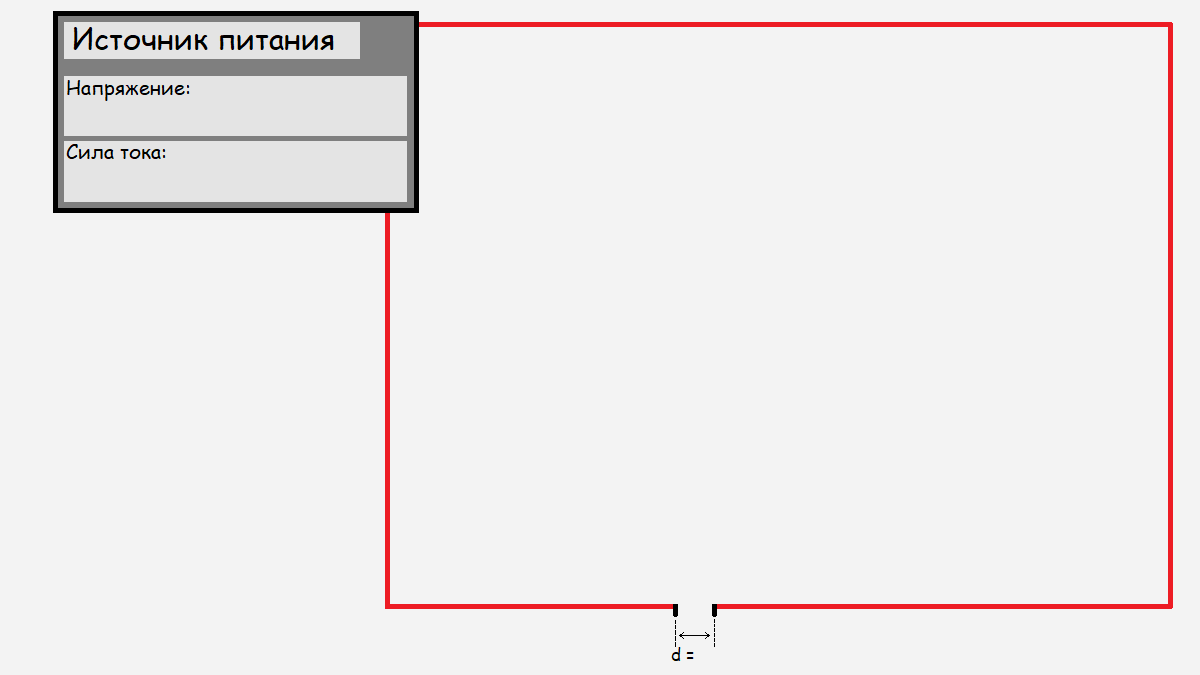
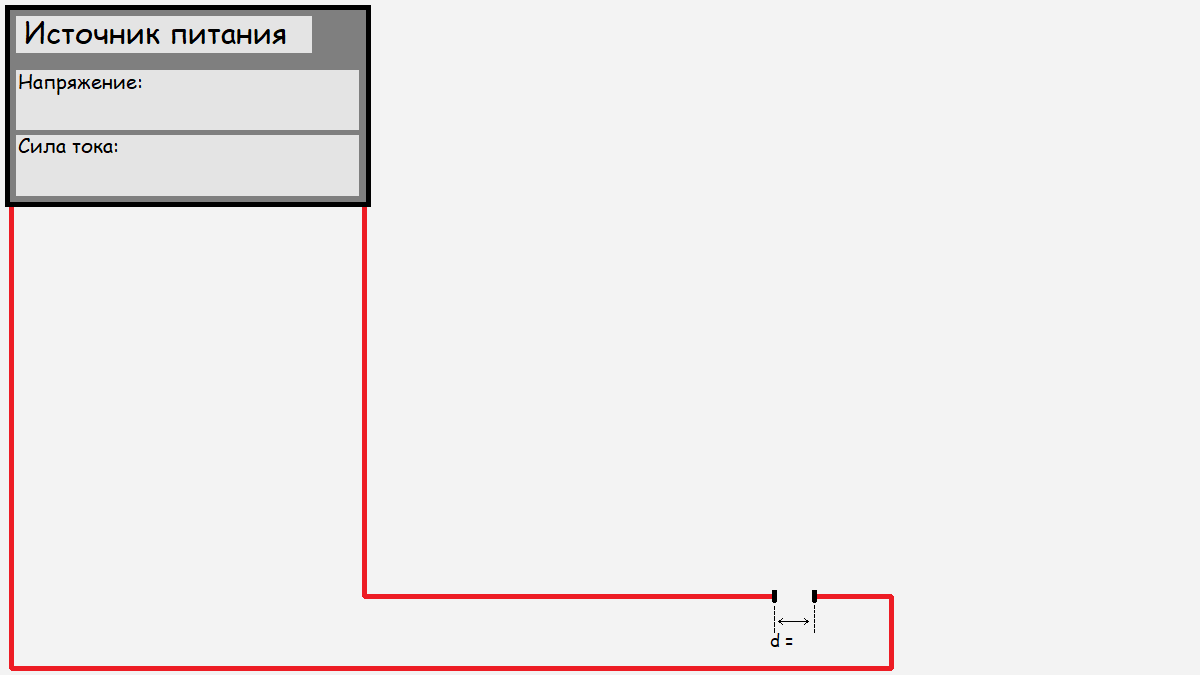
update

Changed region(s): [[0.0, 0.0, 0.9867, 0.9956]]

diff --git a/Physics/Electric arc/physics.py b/Physics/Electric arc/physics.py
@@ -10,7 +10,8 @@ class Ladder:
 
 # Заранее известные константы
     # Общие константы
-    dielectric_strength = 3 * 10 ** 6  # Электрическая прочность воздушного промежутка (В/м)
+    arc_a = -9.81  # Ускорение дуги по оси Y (масса плазмы отрицательна)
+    dielectric_strength = 3 * 10 ** 6  # Электрическая прочность воздушного промежутка (В/м) 3000в/мм => 15000/х = 3000 => х = 5см, а в Галилео было около 3см разница, но дуга все равно разрывалась
     gas_R = 8.31446  # Универсальная газовая постоянная (Дж/(моль*К))
     g = 9.81  # Ускорение свободного падения (м/с^2)
     ion_y = 5 * 10 ** (-2)  # Коэффициент вторичной ионизации
@@ -18,11 +19,11 @@ class Ladder:
     # Все про воздух
     atmosphere_pressure = 10 ** 5  # Абсолютное давление (Па)
     air_temperature = 273.15  # Температура воздуха (K) (0 *С)
-    air_M = 29 * 10**(-3)  # Молярная масса воздуха (кг/моль)
+    # air_M = 29 * 10**(-3)  # Молярная масса воздуха (кг/моль)
 
     # Все про дугу
     arc_temperature = 9273.15  # Температура плазмы (К) (9000 *C)
-    arc_M = 29 * 10**(-3)  # Молярная масса ионизированного воздуха (кг/моль)
+    # arc_M = 29 * 10**(-3)  # Молярная масса ионизированного воздуха (кг/моль)
     stick_length = 1  # Длина проводников (м)
 
 # Входные данные
@@ -32,7 +33,7 @@ class Ladder:
     stick_p = 0.015  # Удельное сопротивление проводников - [0.015; 1.500] (в Ом*мм^2/м)
     stick_S = 0.5  # Площадь поперечного сечения провода - [0.5; 1600.0] (в мм^2) (до десятых)
 
-    # Все про аккумулятор
+    # Все про источник питания
     battery_U = 0  # Напряжение на выходе из источника питания - [0; 10000] (в Вольтах) (до целых)
     battery_I = 0  # Сила тока источника - [0.0, 10.0] (в Амперах) (до десятых)
 
@@ -43,35 +44,35 @@ class Ladder:
 
 # Вычисленные, не изменяющиеся данные
     # Все про провода
-    wire_R = wire_p * wire_length / wire_S                                                                              # (R = p*l/S) -> сопротивление каждого провода (они оба одинаковые)
-    wire_Q_dt = (battery_I ** 2) * wire_R                                                                               # (Q/t = I^2*R) -> выделяемое количество теплоты на каждом проводе в секунду
-    wire_U = battery_I * wire_R                                                                                         # (U = I*R) -> напряжение на каждом проводе (В)
+    wire_R = 0  # wire_p * wire_length / wire_S                                                                              # (R = p*l/S) -> сопротивление каждого провода (они оба одинаковые)
+    wire_Q_dt = 0  # (battery_I ** 2) * wire_R                                                                               # (Q/t = I^2*R) -> выделяемое количество теплоты на каждом проводе в секунду
+    wire_U = 0  # battery_I * wire_R                                                                                         # (U = I*R) -> напряжение на каждом проводе (В)
 
     # Все про воздух
-    air_p = atmosphere_pressure * air_M / (gas_R * air_temperature)                                                     # (P = (p*M)/(R*T)) -> плотность воздуха (кг/м^3)
+    # air_p = 0  # atmosphere_pressure * air_M / (gas_R * air_temperature)                                                     # (P = (p*M)/(R*T)) -> плотность воздуха (кг/м^3)
 
     # Все про дугу
-    arc_start_U = battery_U - 2 * wire_U                                                                                # (U = Uобщ - Uп1 - Uп2 = Uобщ - 2*Uп) -> начальное напряжение эл. дуги
-    arc_start_E = arc_start_U / stick_d                                                                                 # (E = U/d) -> начальная напряженность поля, образовавшегося между проводниками
+    arc_start_U = 0  # battery_U - 2 * wire_U                                                                                # (U = Uобщ - Uп1 - Uп2 = Uобщ - 2*Uп) -> начальное напряжение эл. дуги
+    arc_start_E = 0  # arc_start_U / stick_d                                                                                 # (E = U/d) -> начальная напряженность поля, образовавшегося между проводниками
     arc_h = 0                                                                                                           # (h = at^2/2, a - ускорение дуги, h0 = 0, v0 = 0) -> высота, на которую поднялась дуга
-    arc_p = atmosphere_pressure * arc_M / (gas_R * arc_temperature)                                                     # (P = (p*M)/(R*T)) -> плотность дуги (кг/м^3)
-    arc_start_position = [695, 613]                                                                                     # стартовая позиция дуги == [середина между проводниками, самая нижняя точка между проводниками]
-    arc_a = (air_p / arc_p - 1) * g                                                                                     # (ma = pgV - mg, p - плотность воздуха => a = (p1/p2 - 1)g) -> ускорение дуги (по оси Y)
-    arc_max_h = "undefined"  # cos((stick_angle * pi / 180) / 2)                                                        # h_max = cos(a/2) -> максимальная высота подъема дуги
-    ion_a = 1                                                                                                           # (0.2 * (E - 24.5)^2) -> Коэффициент ударной ионизации
+    # arc_p = 0  # atmosphere_pressure * arc_M / (gas_R * arc_temperature)                                                     # (P = (p*M)/(R*T)) -> плотность дуги (кг/м^3)
+    arc_start_position = 0  # [794, 590]                                                                                     # стартовая позиция дуги == [середина между проводниками, самая нижняя точка между проводниками]
+    # arc_a = -g  # (air_p / arc_p - 1) * g                                                                                     # (ma = pgV - mg, p - плотность воздуха => a = (p1/p2 - 1)g) -> ускорение дуги (по оси Y)
+    arc_max_h = 0  # "undefined"  # cos((stick_angle * pi / 180) / 2)                                                        # h_max = cos(a/2) -> максимальная высота подъема дуги
+    ion_a = 0  # 1                                                                                                           # (0.2 * (E - 24.5)^2) -> Коэффициент ударной ионизации
 
     # Условие образования дуги
-    required_stick_U = dielectric_strength * stick_d                                                                    # (Up = Ep/d) -> мин. напряжение, при котором образуется эл. дуга
+    required_stick_U = 0  # dielectric_strength * stick_d                                                                    # (Up = Ep/d) -> мин. напряжение, при котором образуется эл. дуга
 # Обновляющиеся данные
     # Все про проводники
-    stick_passed_length = arc_h / cos((stick_angle * pi / 180) / 2)                                                     # (length = h/cos(a/2)) -> длина проводника, которое дуга уже преодолела
-    stick_passed_d = stick_d + 2 * arc_h * tan((stick_angle * pi / 180) / 2)                                                      # (2*d = h * tg(a/2)) -> расстояние между проводниками на данной высоте
-    stick_passed_R = stick_p * stick_passed_length / stick_S                                                            # (R = p*l/S) -> сопротивление участка проводника, который теперь тоже является участком электрической цепи
-    stick_passed_U = battery_I * stick_passed_R                                                                         # (U = I*R) -> напряжение на каждом проводнике (В)
+    stick_passed_length = 0  # arc_h / cos((stick_angle * pi / 180) / 2)                                                     # (length = h/cos(a/2)) -> длина проводника, которое дуга уже преодолела
+    stick_passed_d = 0  # stick_d + 2 * arc_h * tan((stick_angle * pi / 180) / 2)                                                      # (2*d = h * tg(a/2)) -> расстояние между проводниками на данной высоте
+    stick_passed_R = 0  # stick_p * stick_passed_length / stick_S                                                            # (R = p*l/S) -> сопротивление участка проводника, который теперь тоже является участком электрической цепи
+    stick_passed_U = 0  # battery_I * stick_passed_R                                                                         # (U = I*R) -> напряжение на каждом проводнике (В)
 
     # Все про дугу
-    arc_position = [695, 613]                                                                                           # стартовая позиция дуги == [середина между проводниками, самая нижняя точка между проводниками]
-    arc_U = battery_U - 2 * (wire_U + stick_passed_U)                                                                   # (U = Uобщ - 2*U_w - 2*U_s) -> напряжение дуги
+    arc_position = 0  # arc_start_position                                                                                   # стартовая позиция дуги == [середина между проводниками, самая нижняя точка между проводниками]
+    arc_U = 0  # battery_U - 2 * (wire_U + stick_passed_U)                                                                   # (U = Uобщ - 2*U_w - 2*U_s) -> напряжение дуги
     arc_E = 0  # arc_U / stick_passed_length                                                                            # (E = U/d)
 
     # Конструктор с заданием начальных значений величин
@@ -86,8 +87,6 @@ class Ladder:
         self.stick_p = stick_p
         self.stick_S = stick_S
         self.ion_y = y
-        # Делаем стартовые рассчеты
-        self.make_start_calculations()
 
     # Округление полученных данных
     def round_data(self):
@@ -95,7 +94,7 @@ class Ladder:
             round(self.arc_position[0], self.precision),
             round(self.arc_position[1], self.precision)
         ]
-        self.arc_a = round(self.arc_a, self.precision)
+        # self.arc_a = round(self.arc_a, self.precision)
         # return [
         #     f"U: {self.battery_U}",
         #     f"I: {self.battery_I}",
@@ -116,16 +115,16 @@ class Ladder:
         self.wire_Q_dt = (self.battery_I ** 2) * self.wire_R                                                            # (Q/t = I^2*R) -> выделяемое количество теплоты на каждом проводе в секунду
         self.wire_U = self.battery_I * self.wire_R                                                                      # (U = I/R) -> напряжение на каждом проводе (В)
 
+        # Все про воздух
+        # self.air_p = self.atmosphere_pressure * self.air_M / (self.gas_R * self.air_temperature)                        # (P = (p*M)/(R*T)) -> плотность воздуха (кг/м^3)
+
         # Все про дугу
         self.arc_start_U = self.battery_U - 2 * self.wire_U                                                             # (U = Uобщ - Uп1 - Uп2 = Uобщ - 2*Uп) -> начальное напряжение эл. дуги
         self.arc_start_E = self.arc_start_U / self.stick_d                                                              # (E = U/d) -> начальная напряженность поля, образовавшегося между проводниками
-        self.arc_p = self.atmosphere_pressure * self.arc_M / (self.gas_R * self.arc_temperature)                        # (P = (p*M)/(R*T)) -> плотность дуги (кг/м^3)
-        self.arc_start_position = [695, 613]                                                                            # стартовая позиция дуги == [середина между проводниками, самая нижняя точка между проводниками]
-        self.arc_a = (self.air_p / self.arc_p - 1) * self.g                                                             # (ma = pgV - mg, p - плотность воздуха => a = (p1/p2 - 1)g) -> ускорение дуги (по оси Y)
-        self.arc_max_h = cos((self.stick_angle * pi / 180) / 2)                                                         # h_max = cos(a/2), если  -> максимальная высота подъема дуги
-
-        # Все про воздух
-        self.air_p = self.atmosphere_pressure * self.air_M / (self.gas_R * self.air_temperature)                        # (P = (p*M)/(R*T)) -> плотность воздуха (кг/м^3)
+        # self.arc_p = self.atmosphere_pressure * self.arc_M / (self.gas_R * self.arc_temperature)                        # (P = (p*M)/(R*T)) -> плотность дуги (кг/м^3)
+        self.arc_start_position = [794, 590]                                                                            # стартовая позиция дуги == [середина между проводниками, самая нижняя точка между проводниками]
+        # self.arc_a = (self.air_p / self.arc_p - 1) * self.g                                                             # (ma = pgV - mg, p - плотность воздуха => a = (p1/p2 - 1)g) -> ускорение дуги (по оси Y)
+        # self.arc_max_h = cos((self.stick_angle * pi / 180) / 2)                                                         # h_max = cos(a/2), если  -> максимальная высота подъема дуги
 
         # Условие образования дуги
         self.required_stick_U = self.dielectric_strength * self.stick_d                                                 # (Up = Ep/d) -> мин. напряжение, при котором образуется эл. дуга
@@ -164,14 +163,14 @@ class Ladder:
     # Передать информацию в виде списка
     def get_info(self):
         return [
-            f"U: {round(self.battery_U, self.output_precision)}",
-            f"I: {round(self.battery_I, self.output_precision)}",
-            f"Wires -> R: {round(self.wire_R, self.output_precision)}",
-            f"Wires -> Q/t: {round(self.wire_Q_dt, self.output_precision)}",
-            f"Arc -> U: {round(self.arc_U, self.output_precision)}",
-            f"Arc -> length: {round(self.stick_passed_length, self.output_precision)}",
-            f"Arc -> E: {round(self.arc_E, self.output_precision)}",
-            f"Arc -> H_max: {round(self.arc_max_h, self.output_precision)}"
+            ["Battery -> U", round(self.battery_U, self.output_precision)],
+            ["Battery -> I", round(self.battery_I, self.output_precision)],
+            ["Wires -> R", round(self.wire_R, self.output_precision)],
+            ["Wires -> Q/t", round(self.wire_Q_dt, self.output_precision)],
+            ["Arc -> U", round(self.arc_U, self.output_precision)],
+            ["Arc -> E", round(self.arc_E, self.output_precision)],
+            ["Arc -> length", round(self.stick_passed_length, self.output_precision)],
+            ["Arc -> H_max", round(self.arc_max_h, self.output_precision)]
         ]
 
     def set_precision(self, precision):

diff --git a/Physics/Electric arc/graphics.py b/Physics/Electric arc/graphics.py
@@ -1,6 +1,10 @@
 import pygame
-from physics import Ladder
 from pygame.locals import *
+from physics import Ladder
+from math import sqrt
+from math import tan
+from math import sin
+from math import pi
 
 
 def input_from_file(filename):
@@ -38,14 +42,35 @@ def input_from_file(filename):
     return ladder_object
 
 
+def calculate_lines(angle, start_pos1, start_pos2, length):
+    L = length
+
+    q = (angle * pi / 180) / 2 # pi / 2 - (angle * pi / 180) / 2  # alpha / 2
+    tg_q = tan(q)
+    delta_x = round(abs(L * tg_q / sqrt(tg_q**2 + 1)))  # a1 + pixel_len * sin(q1)  # (a * tanq2 + a + sqrt(tanq2 * (tanq2 + 1))) / (tanq2 + 1)
+    delta_y = round(sqrt(L**2 - delta_x**2))  # b1 + sqrt(pixel_len**2 - (x1 - a1)**2)  # (b * sqrt(tanq2 * (tanq2 + 1)) + tan(q))/sqrt(tanq2 * (tanq2 + 1))
+
+    left_line = [start_pos1[0], start_pos1[1], start_pos1[0] - delta_x, start_pos1[1] - delta_y]
+    right_line = [start_pos2[0], start_pos2[1], start_pos2[0] + delta_x, start_pos2[1] - delta_y]
+
+    return left_line, right_line
+
+
 def graphics():
 
-    slow = 10  # 20 * 10 ** 6  # замедление времени
+    slow = 5  # 20 * 10 ** 6  # замедление времени
     correction_factor = 1.43  # коэффициент, умножение на который даст сильно приближенное к реальному обновление времени в условиях программы, так как расчтеты производятся не мгновенно
     precision = 3  # точность вывода, количество знаков после запятой при выводе (рассчеты все равно проводятся с максимально возможной для Python3 точностью)
-
+    start_pos_left = [774, 590]
+    start_pos_right = [814, 590]
+    meter_div_by_pix = 500  # количество пикселей в одном метре
     # Объявляем объект лестницы
     ladder = input_from_file('input.txt')
+    # Делаем стартовые рассчеты
+    ladder.make_start_calculations()
+    left_line, right_line = calculate_lines(ladder.stick_angle, start_pos_left, start_pos_right, meter_div_by_pix)
+    # print(left_line)
+    # print(right_line)
 
     # Подготовка для работы с графикой
     window_size = (1200, 675)
@@ -60,6 +85,7 @@ def graphics():
 
     # Переменные для графики
     BLACK = (0, 0, 0)
+    PURPLE = (163, 73, 164)
     font = pygame.font.SysFont('inconsolata', 30)
 
     # Переменная времени, в секундах
@@ -79,14 +105,26 @@ def graphics():
         screen.blit(world_bg_img, (0, 0))
         screen.blit(font.render(f"t = {round(t, precision)} c", 1, BLACK), (55, 225))
 
+        # Добавляем проводники, расположенные под углом stick_angle между ними
+        pygame.draw.line(screen, BLACK, [left_line[0], left_line[1]], [left_line[2], left_line[3]], 3)
+        pygame.draw.line(screen, BLACK, [right_line[0], right_line[1]], [right_line[2], right_line[3]], 3)
+
         if started:
             # Добавляем на экран дугу (или не добавляем)
-            # screen.blit(particle.image, (int(particle.current_position[0]), int(particle.current_position[1])))
+            print("passed:", ladder.stick_passed_d)
+            print("h:", ladder.arc_h)
+            pygame.draw.line(screen, PURPLE,
+                             [round(ladder.arc_start_position[0] - ladder.stick_passed_d * meter_div_by_pix),
+                              round(ladder.arc_start_position[1] + ladder.arc_h * meter_div_by_pix)
+                              ],
+                             [round(ladder.arc_start_position[0] + ladder.stick_passed_d * meter_div_by_pix),
+                              round(ladder.arc_start_position[1] + ladder.arc_h * meter_div_by_pix)
+                              ], 2)
 
             # Добавляем информацию о ней
-            writable = ladder.get_info()
-            for i in range(len(writable)):
-                screen.blit(font.render(writable[i], 1, BLACK), (55, 250 + i * 25))
+            # writable = ladder.get_info()
+            # for i in range(len(writable)):
+            #     screen.blit(font.render(writable[i], 1, BLACK), (55, 250 + i * 25))
 
             # Обновляем ее состояние
             ladder.make_regular_calculations(t)
@@ -97,7 +135,7 @@ def graphics():
             # t += 1
             t += (delay / 1000) * correction_factor / slow  # синхронизируемся с реальным временем
         else:
-            screen.blit(start_img, (100, 360))
+            screen.blit(start_img, (80, 360))
 
 
 if __name__ == '__main__':
